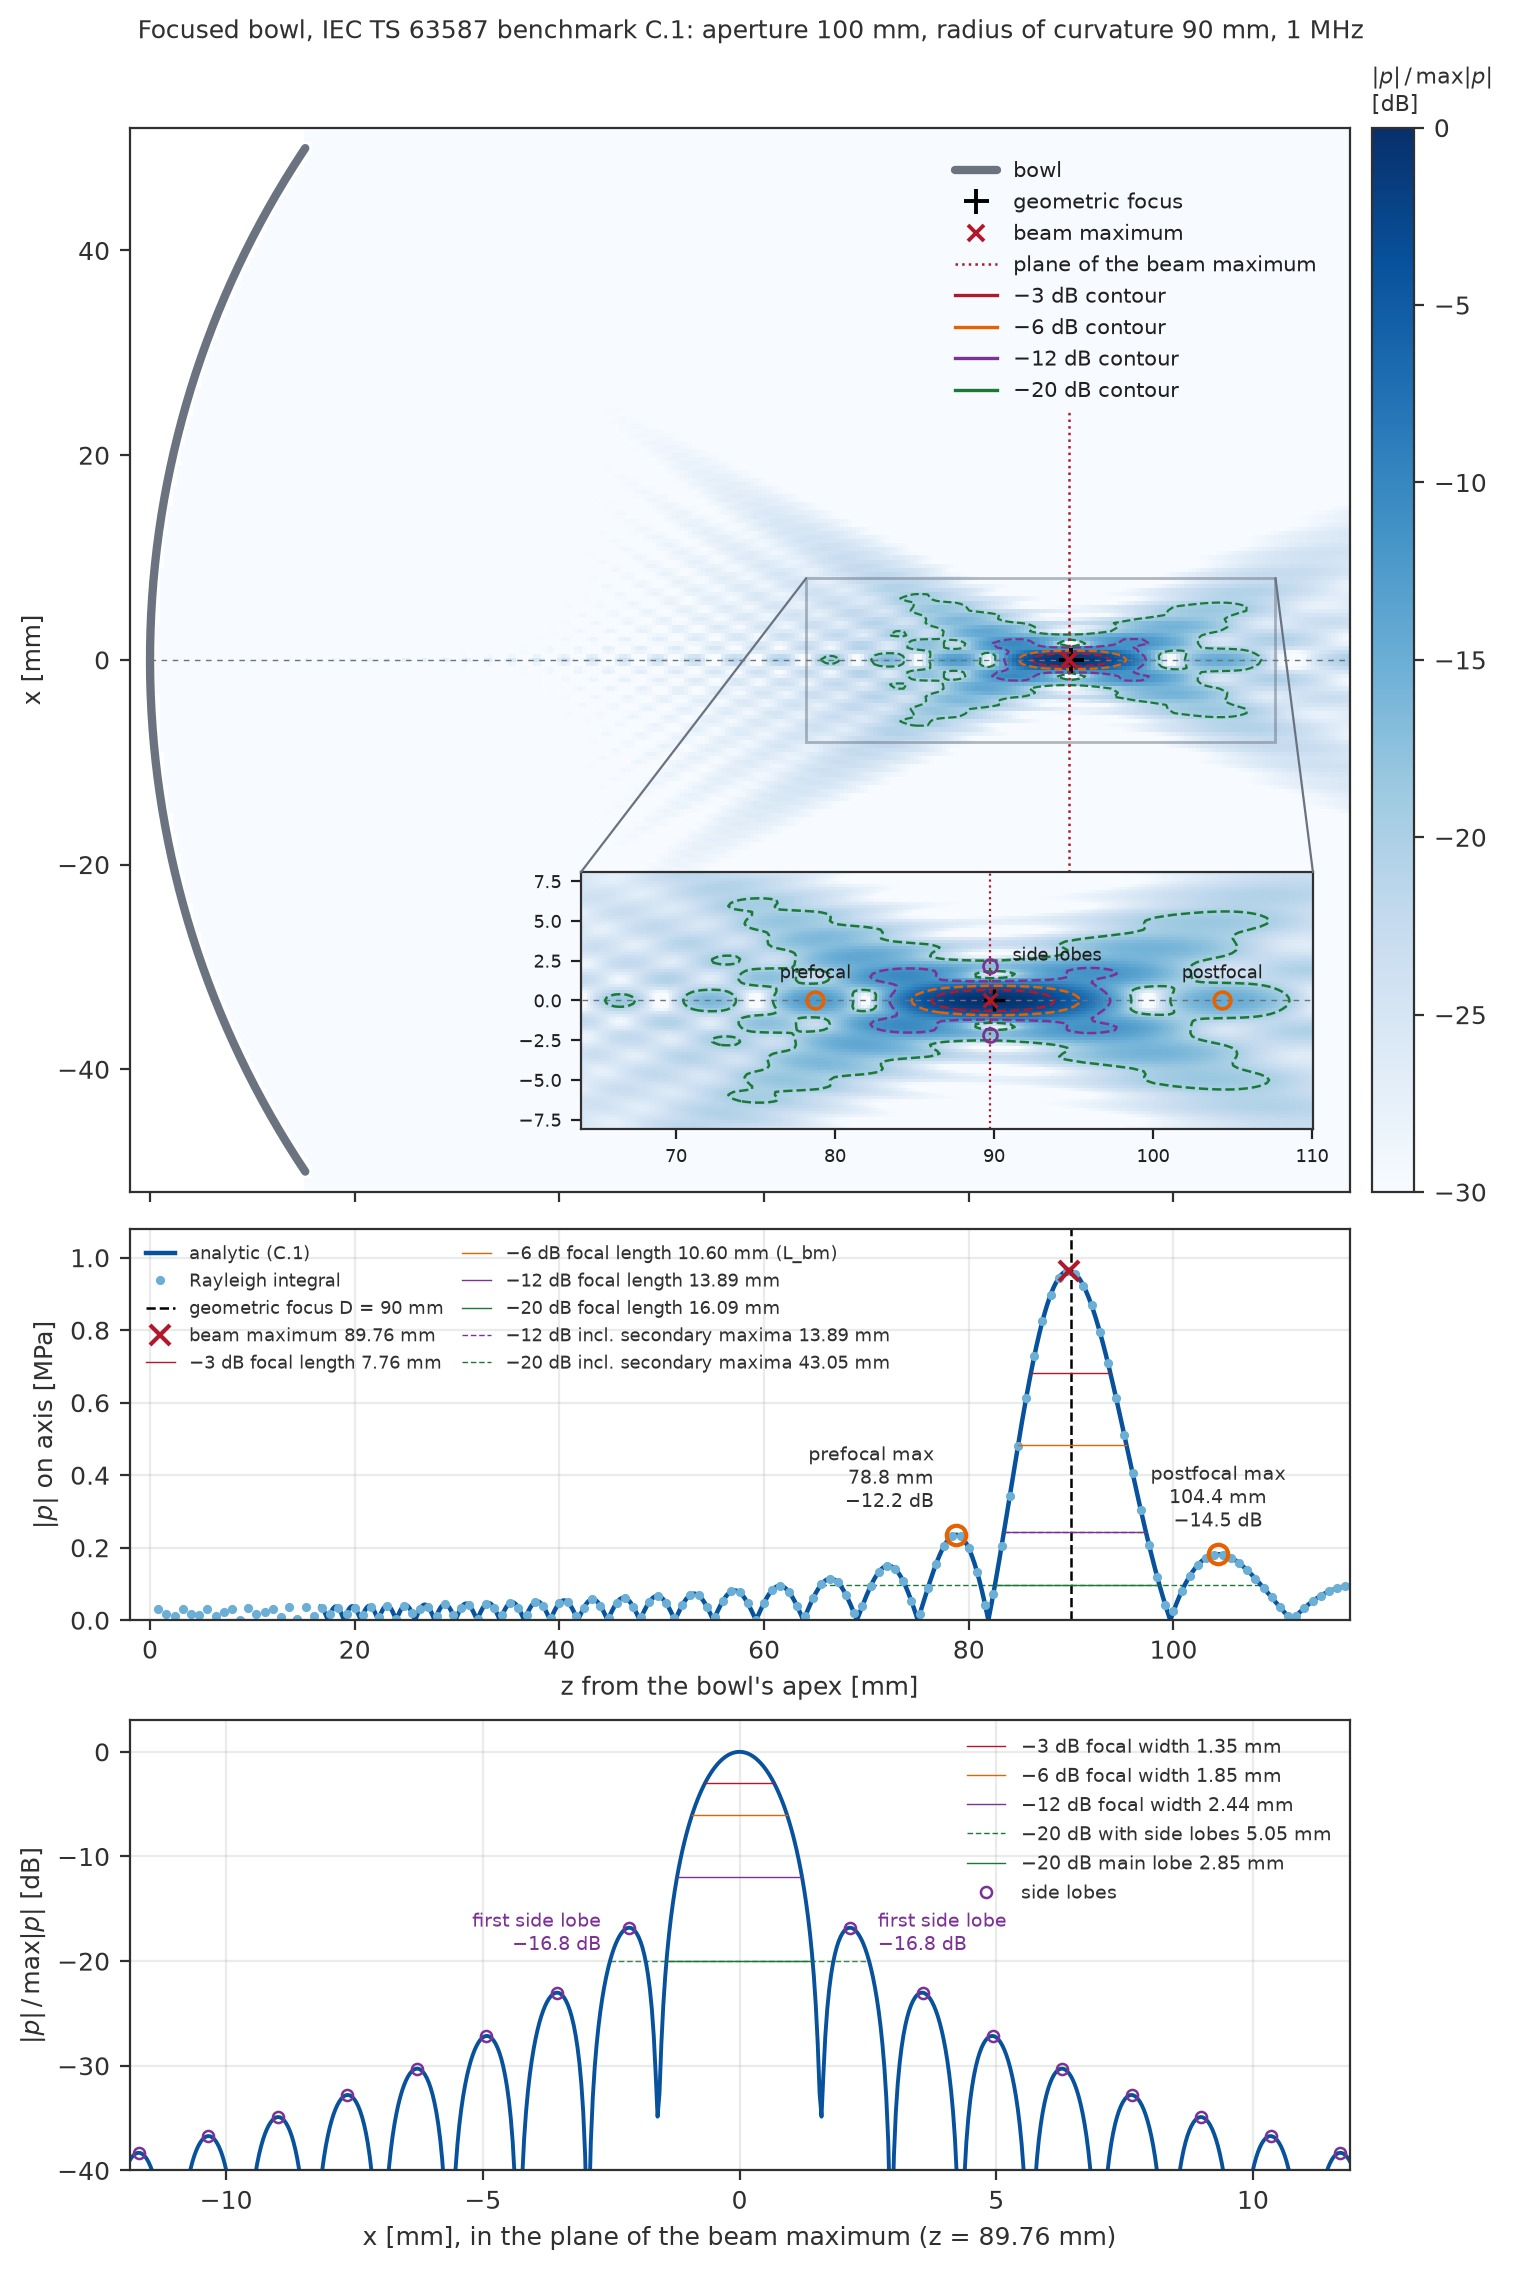
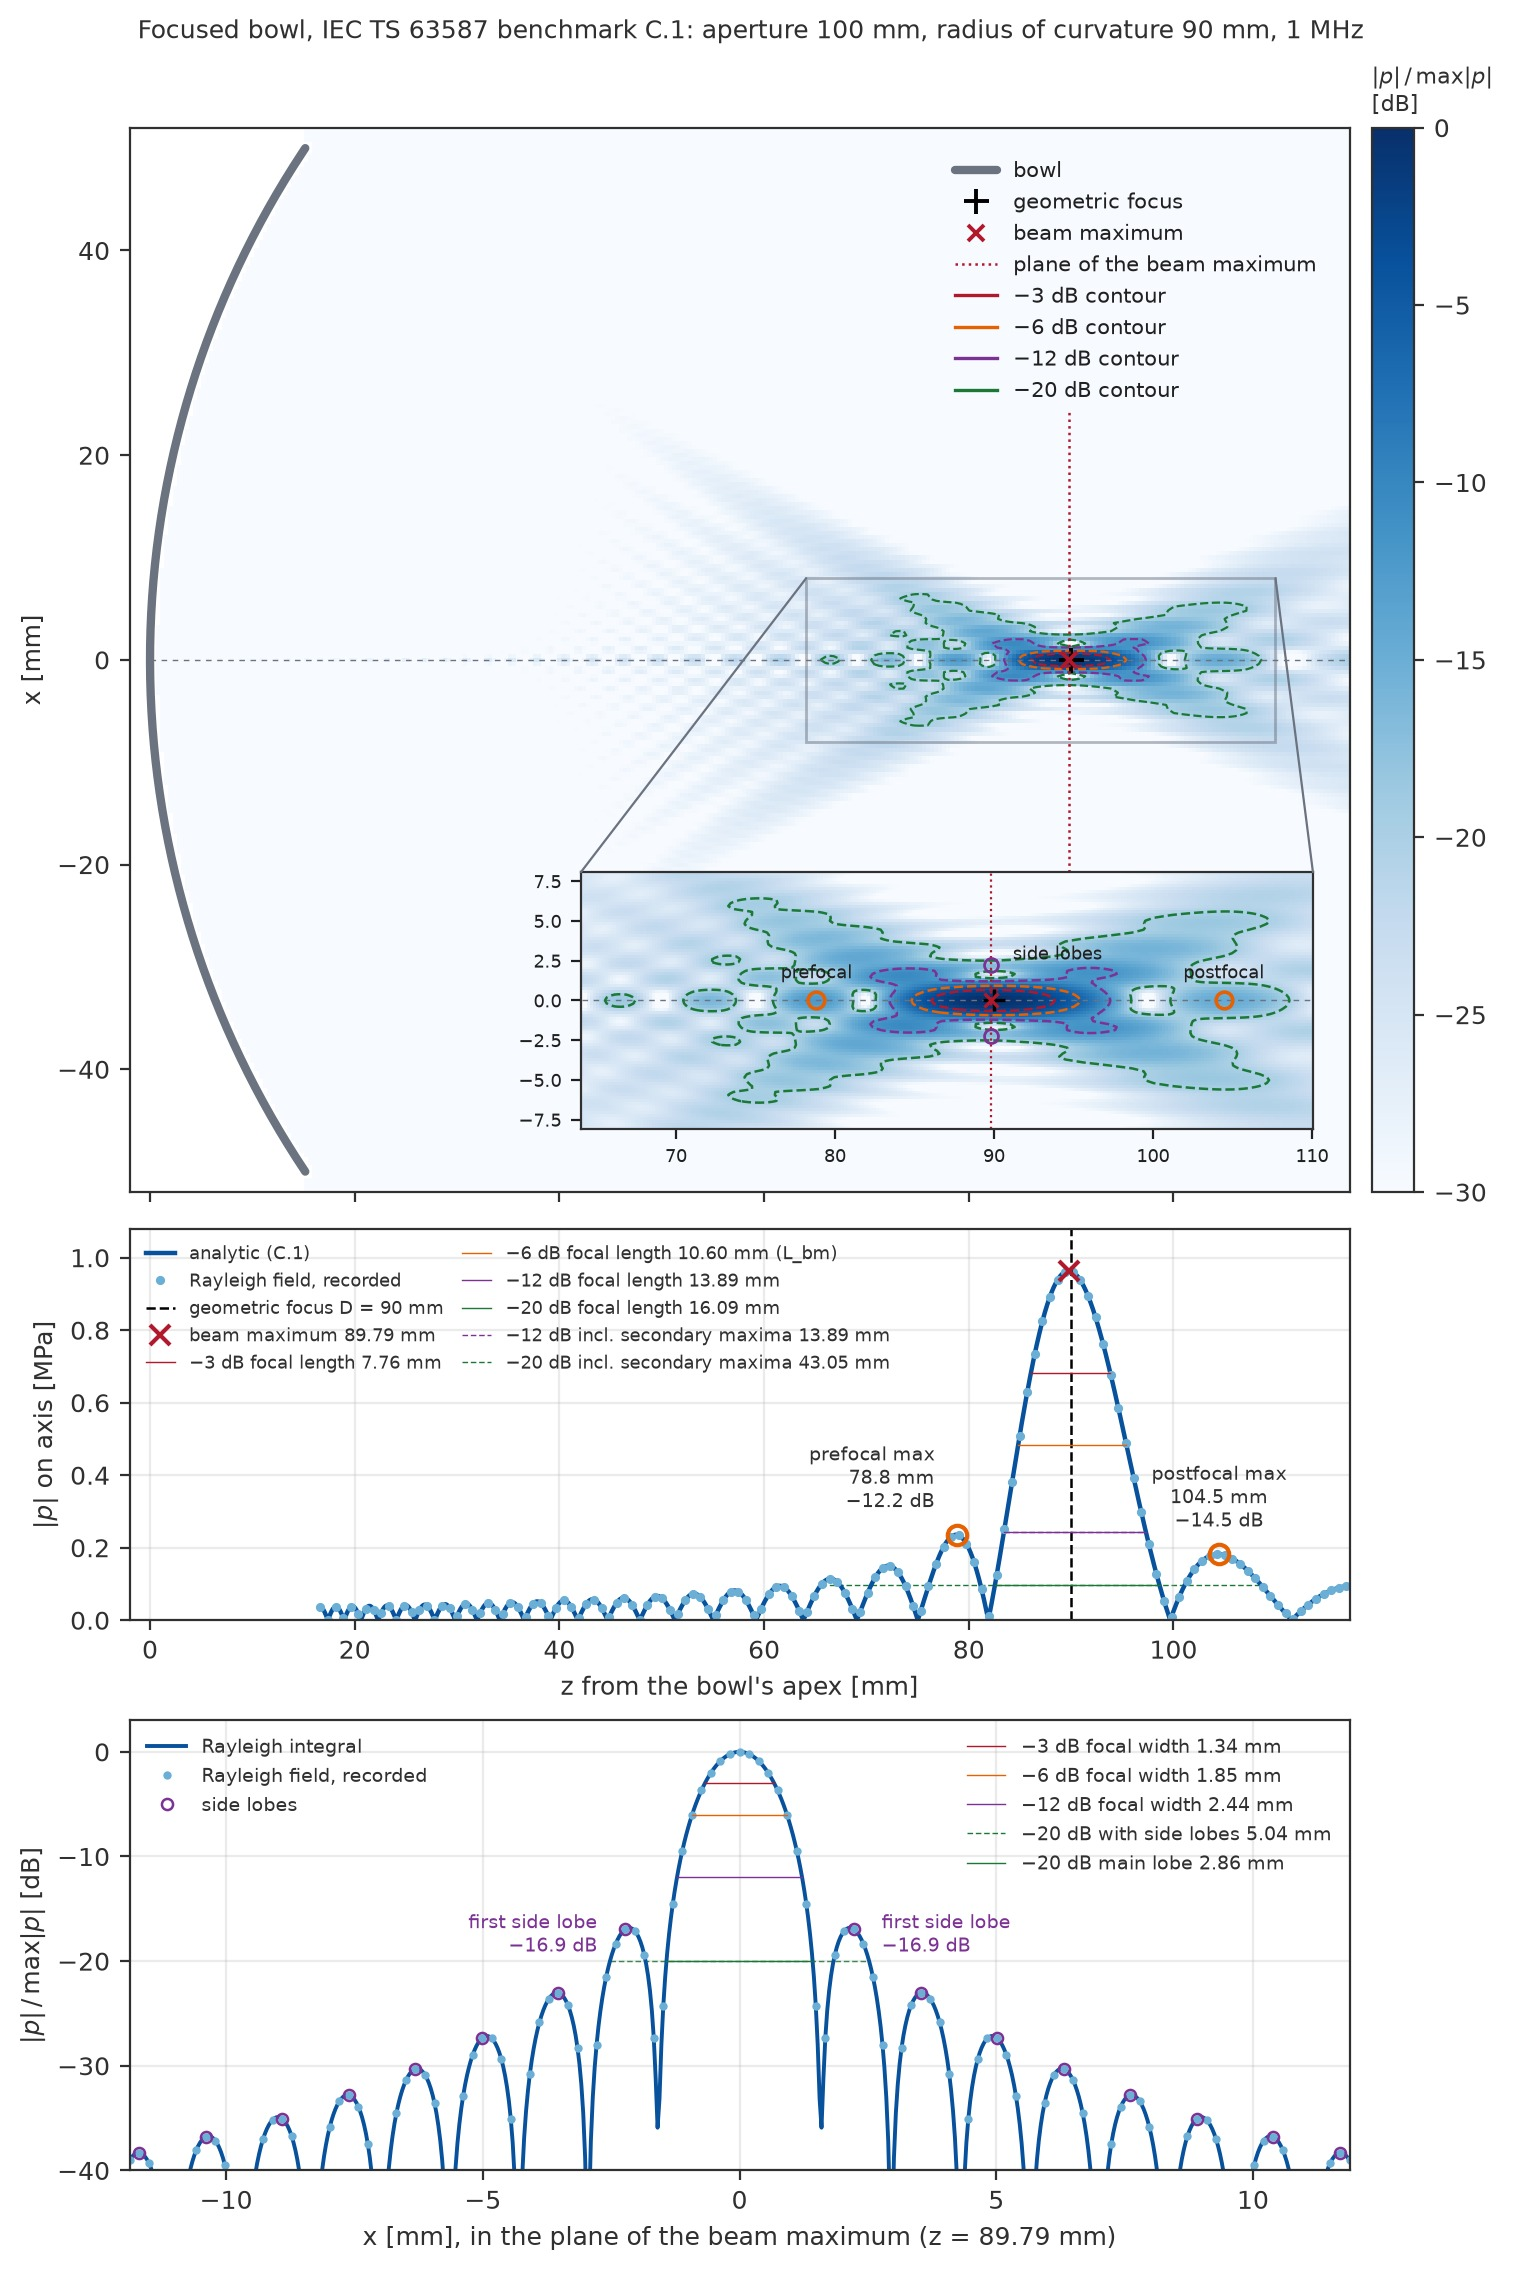
figures for C1 updated

diff --git a/examples/figure_bowl_field.py b/examples/figure_bowl_field.py
@@ -297,7 +297,15 @@ def figure(bowl, field, inset, feat, text_color):
             lateral.annotate(f"first side lobe\n{lv:.1f} dB".replace("-", MINUS), (xs * 1e3, lv), xytext=(dx, -2),
                              textcoords="offset points", ha=ha, va="center", fontsize=7, color="#7b3294")  # fmt: skip
     lateral.plot([], [], marker="o", mfc="none", color="#7b3294", ms=4, mew=0.9, ls="none", label="side lobes")
-    lateral.legend(loc="upper right", fontsize=7, frameon=False)
+    # two legends: the curves and the side lobes on the left, the widths on the right
+    handles, labels = lateral.get_legend_handles_labels()
+    curves = [k for k, lab in enumerate(labels) if lab.startswith("Rayleigh") or lab == "side lobes"]
+    widths = [k for k in range(len(labels)) if k not in curves]
+    left = lateral.legend([handles[k] for k in curves], [labels[k] for k in curves], loc="upper left", fontsize=7,
+                          frameon=False)  # fmt: skip
+    lateral.add_artist(left)
+    lateral.legend([handles[k] for k in widths], [labels[k] for k in widths], loc="upper right", fontsize=7,
+                   frameon=False)  # fmt: skip
     span = max(6 * half.max(), 8 * bowl.wavelength) * 1e3
     lateral.set_xlim(-span, span)
     lateral.set_ylim(-40, 3)

diff --git a/docs/iec_outputs.md b/docs/iec_outputs.md
@@ -86,11 +86,11 @@ The options that control these outputs are under `Solver.Metrics`: `focal_quanti
 | Focal plane | the plane through the focus, perpendicular to the axis | the copy of the harmonics on the plane of the focus | recorded: `focal_plane.txt`, `focal_plane` in `results.npz` |
 | Plane of the spatial peak | where the field maximum lies if it is not on the axis | as the focal plane, for the plane maximum of p₊ | recorded: `peak_plane`, `spatial_peak_p_positive.off_axis` |
 | Focal length, beam-maximum distance, focal shift | distance from the source to the focus, and its difference from the geometric focal length | z of the focus minus z₀, minus the radius of curvature | recorded: `focus.z`, `focal_shift` |
-| Focal widths (−3, −6, −12, −20 dB) | beamwidth in the focal plane at the level, in two orthogonal directions: the **greatest** distance between two points on the line where the level is reached (62127-1, 61828), so side lobes above the level are inside it | the outermost level crossings along the x and y lines through the focus, interpolated linearly; NaN if the line is above the level at its ends. The main lobe's width (the crossings either side of the focus) is given too: the two differ only below the level of the highest side lobe, e.g. at −20 dB for a focused bowl whose first side lobes are near −17 dB | recorded at every level in `levels_dB`: `focal_width_x_6dB`, `focal_width_y_6dB`, …, and `focal_width_x_6dB_main_lobe`, … |
+| Focal widths (−3, −6, −12, −20 dB) | beamwidth in the focal plane at the level, in two orthogonal directions: the **greatest** distance between two points on the line where the level is reached (62127-1, 61828), so side lobes above the level are inside it | the outermost level crossings along the x and y lines through the focus, interpolated linearly; NaN if the line is above the level at its ends. The main lobe's width (the crossings either side of the focus) is given too: the two differ only below the level of the highest side lobe, e.g. at −20 dB for a focused bowl whose first side lobes are near −17 dB | recorded at every level in `levels_dB`: `focal_width_x_6dB`, `focal_width_y_6dB`, …, and `focal_width_x_6dB_main_lobe`, …; the crossing positions themselves (main lobe and outermost, along the axis, x and y) from `Results.level_extents(level_dB)` |
 | Focal depth | extent along the axis above the level: at −6 dB, the beam maximum depth L_bm, the **smallest** distance between two points on the axis where the level is reached (61828; TS 63587, 3.16) | level crossings of the axial profile either side of the focus; NaN if the region reaches the source plane or the end of the domain | recorded: `focal_length_6dB`, … |
 | Focal area, beam area | area in the focal plane of **all** the points above the level (62127-1; the beam maximum volume of 61828 and TS 63587, 3.18, is its extension in z) | grid cells above the level, times dx dy. The main lobe's area (the cells connected to the focus) is given too | recorded: `focal_area_6dB`, …, and `focal_area_6dB_main_lobe`, … |
 | Focal gain | focal pressure over source pressure | \|P_1\| at the focus over the source amplitude | recorded: `focal_gain` |
-| Side lobes, prefocal and post-focal maxima | secondary maxima, for example for safety near skin and bone | the largest maxima outside the main lobe. The lobe extends past the −6 dB level to its first minimum, so ripples on it do not count. Computed along the axis (prefocal, post-focal) and along x and y in the focal plane | recorded: `iec.side_lobes` (`axial`, `x`, `y`: value, position, level in dB) |
+| Side lobes, prefocal and post-focal maxima | secondary maxima, for example for safety near skin and bone | the largest maxima outside the main lobe. The lobe extends past the −6 dB level to its first minimum, so ripples on it do not count. Computed along the axis (prefocal, post-focal) and along x and y in the focal plane. Every maximum outside the main lobe, not only the largest each side, is given by `iec.side_lobe_peaks` on the lines of `Results.focal_lines()` | recorded: `iec.side_lobes` (`axial`, `x`, `y`: value, position, level in dB) |
 
 ### Exposure indices (IEC 62359)
 
